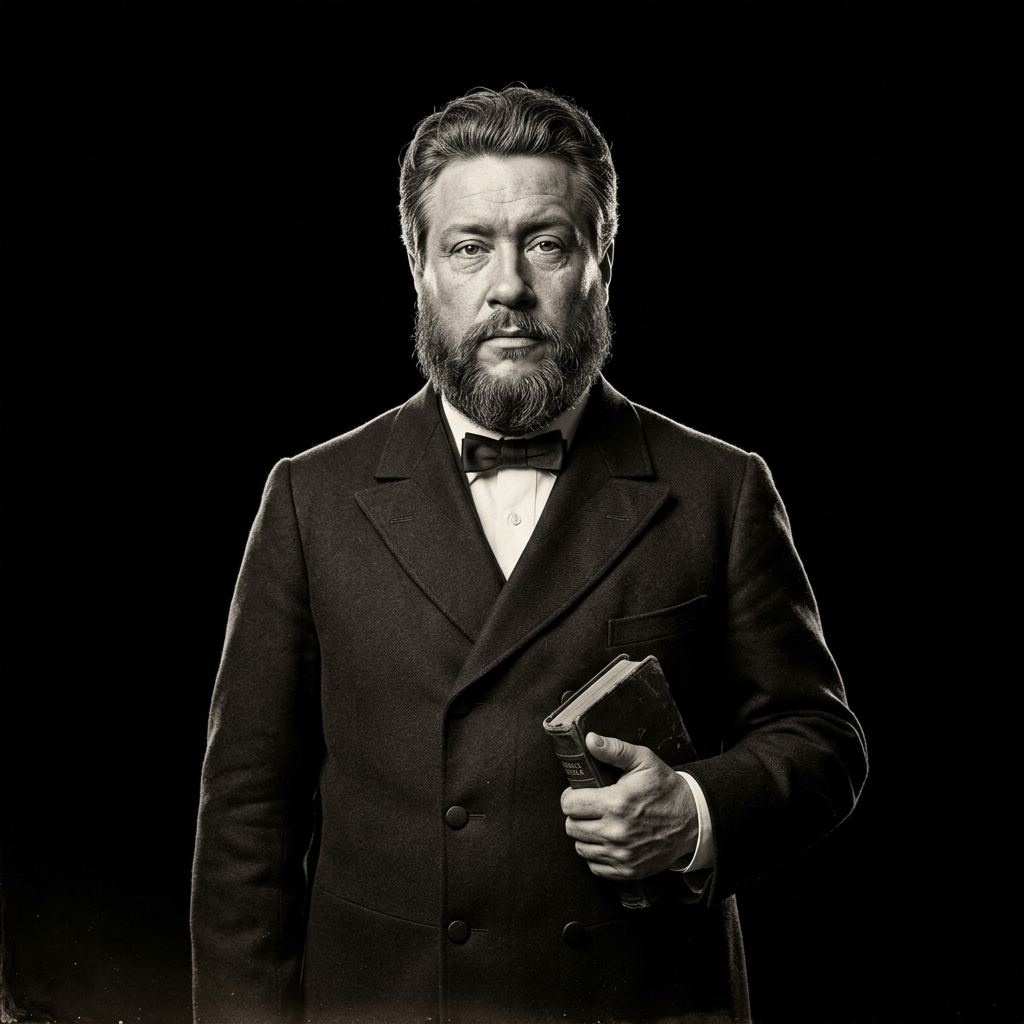
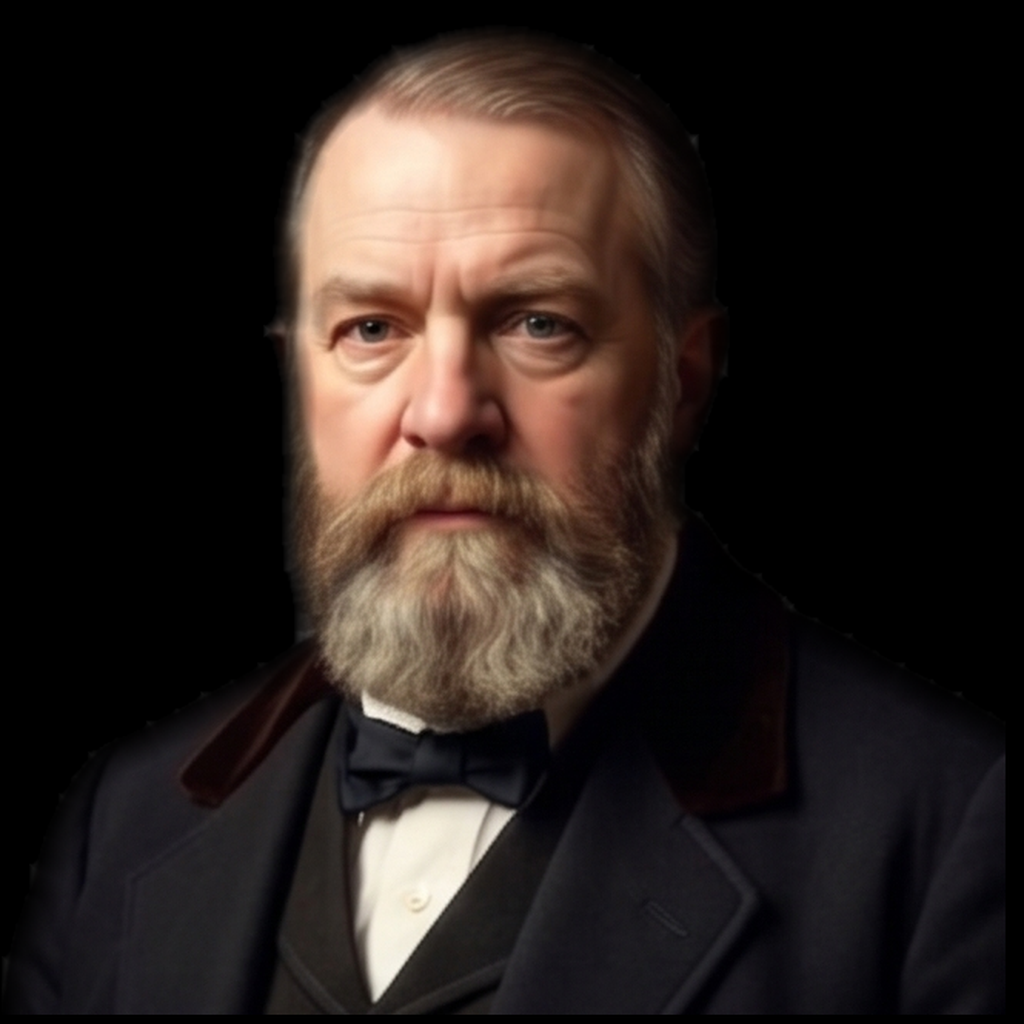
render_short e hybrid_render: namespace por canal nos diretorios de trabalho
Terceiro e quarto lugares com a mesma armadilha do build_job. `_hybrid/0001` e
`out/shorts/0001_c01.mp4` eram os mesmos caminhos pra TODO canal.

No _hybrid/0001 ja estavam base.png, body.mp4, outro.mp4 e o 0001.mp4 final do
Spurgeon, de 20/07, esperando pra serem concatenados com o intro do Moody que o
render acabara de escrever. Nenhum erro apareceria.

A licao geral, que vale pros proximos 8 canais: TODO caminho local derivado so
do numero do sermao e uma colisao esperando canal novo. Numero de sermao nao e
identificador global; (canal, numero) e.

diff --git a/remotion/render_short.py b/remotion/render_short.py
@@ -27,7 +27,9 @@ import canais
 BUCKET = CHANNEL_PREFIX = SHORTS_RENDER_PREFIX = None
 HERE = os.path.dirname(os.path.abspath(__file__))
 PUBLIC_SHORTS = os.path.join(HERE, "public", "shorts")
-OUT_DIR = os.path.join(HERE, "out", "shorts")
+# Sem o canal no caminho, o short 0001_c01 do Moody sobrescreve o do Spurgeon.
+# Mesma armadilha que o build_job e o hybrid_render tinham (23/08).
+OUT_DIR = None   # preenchido em main() com o slug do canal
 FADE_S = 0.15  # fade de áudio nas pontas do corte, tira o "tec" do corte seco
 
 
@@ -128,6 +130,8 @@ def main():
     BUCKET, CHANNEL_PREFIX = C["bucket"], C["prefix"]
     # shorts saem ao lado dos longos, com sufixo: renders/moody -> renders/moody_shorts
     SHORTS_RENDER_PREFIX = C["renders_prefix"] + "_shorts"
+    global OUT_DIR
+    OUT_DIR = os.path.join(HERE, "out", "shorts", C["slug"])
     print(f"✂  {C['nome']} · shorts de {int(args.sermon):04d}")
 
     env = load_env()

diff --git a/remotion/hybrid_render.py b/remotion/hybrid_render.py
@@ -57,7 +57,11 @@ def main():
     C = canais.get(args.canal)
     nnnn = f"{int(args.sermon):04d}"
     print(f"🎬 {C['nome']} · sermão {nnnn}")
-    work = os.path.join(HERE, "_hybrid", nnnn)
+    # ⚠ NAMESPACE POR CANAL, mesma armadilha do build_job (23/08). Era
+    # `_hybrid/0001` pra todo canal, e o 0001 do Moody caiu em cima do 0001 do
+    # Spurgeon de julho: base.png, body.mp4 e outro.mp4 do canal ERRADO
+    # esperando pra serem concatenados sem nenhum erro na tela.
+    work = os.path.join(HERE, "_hybrid", C["slug"], nnnn)
     os.makedirs(work, exist_ok=True)
     props = os.path.join(HERE, f"props_{nnnn}.json")
 
